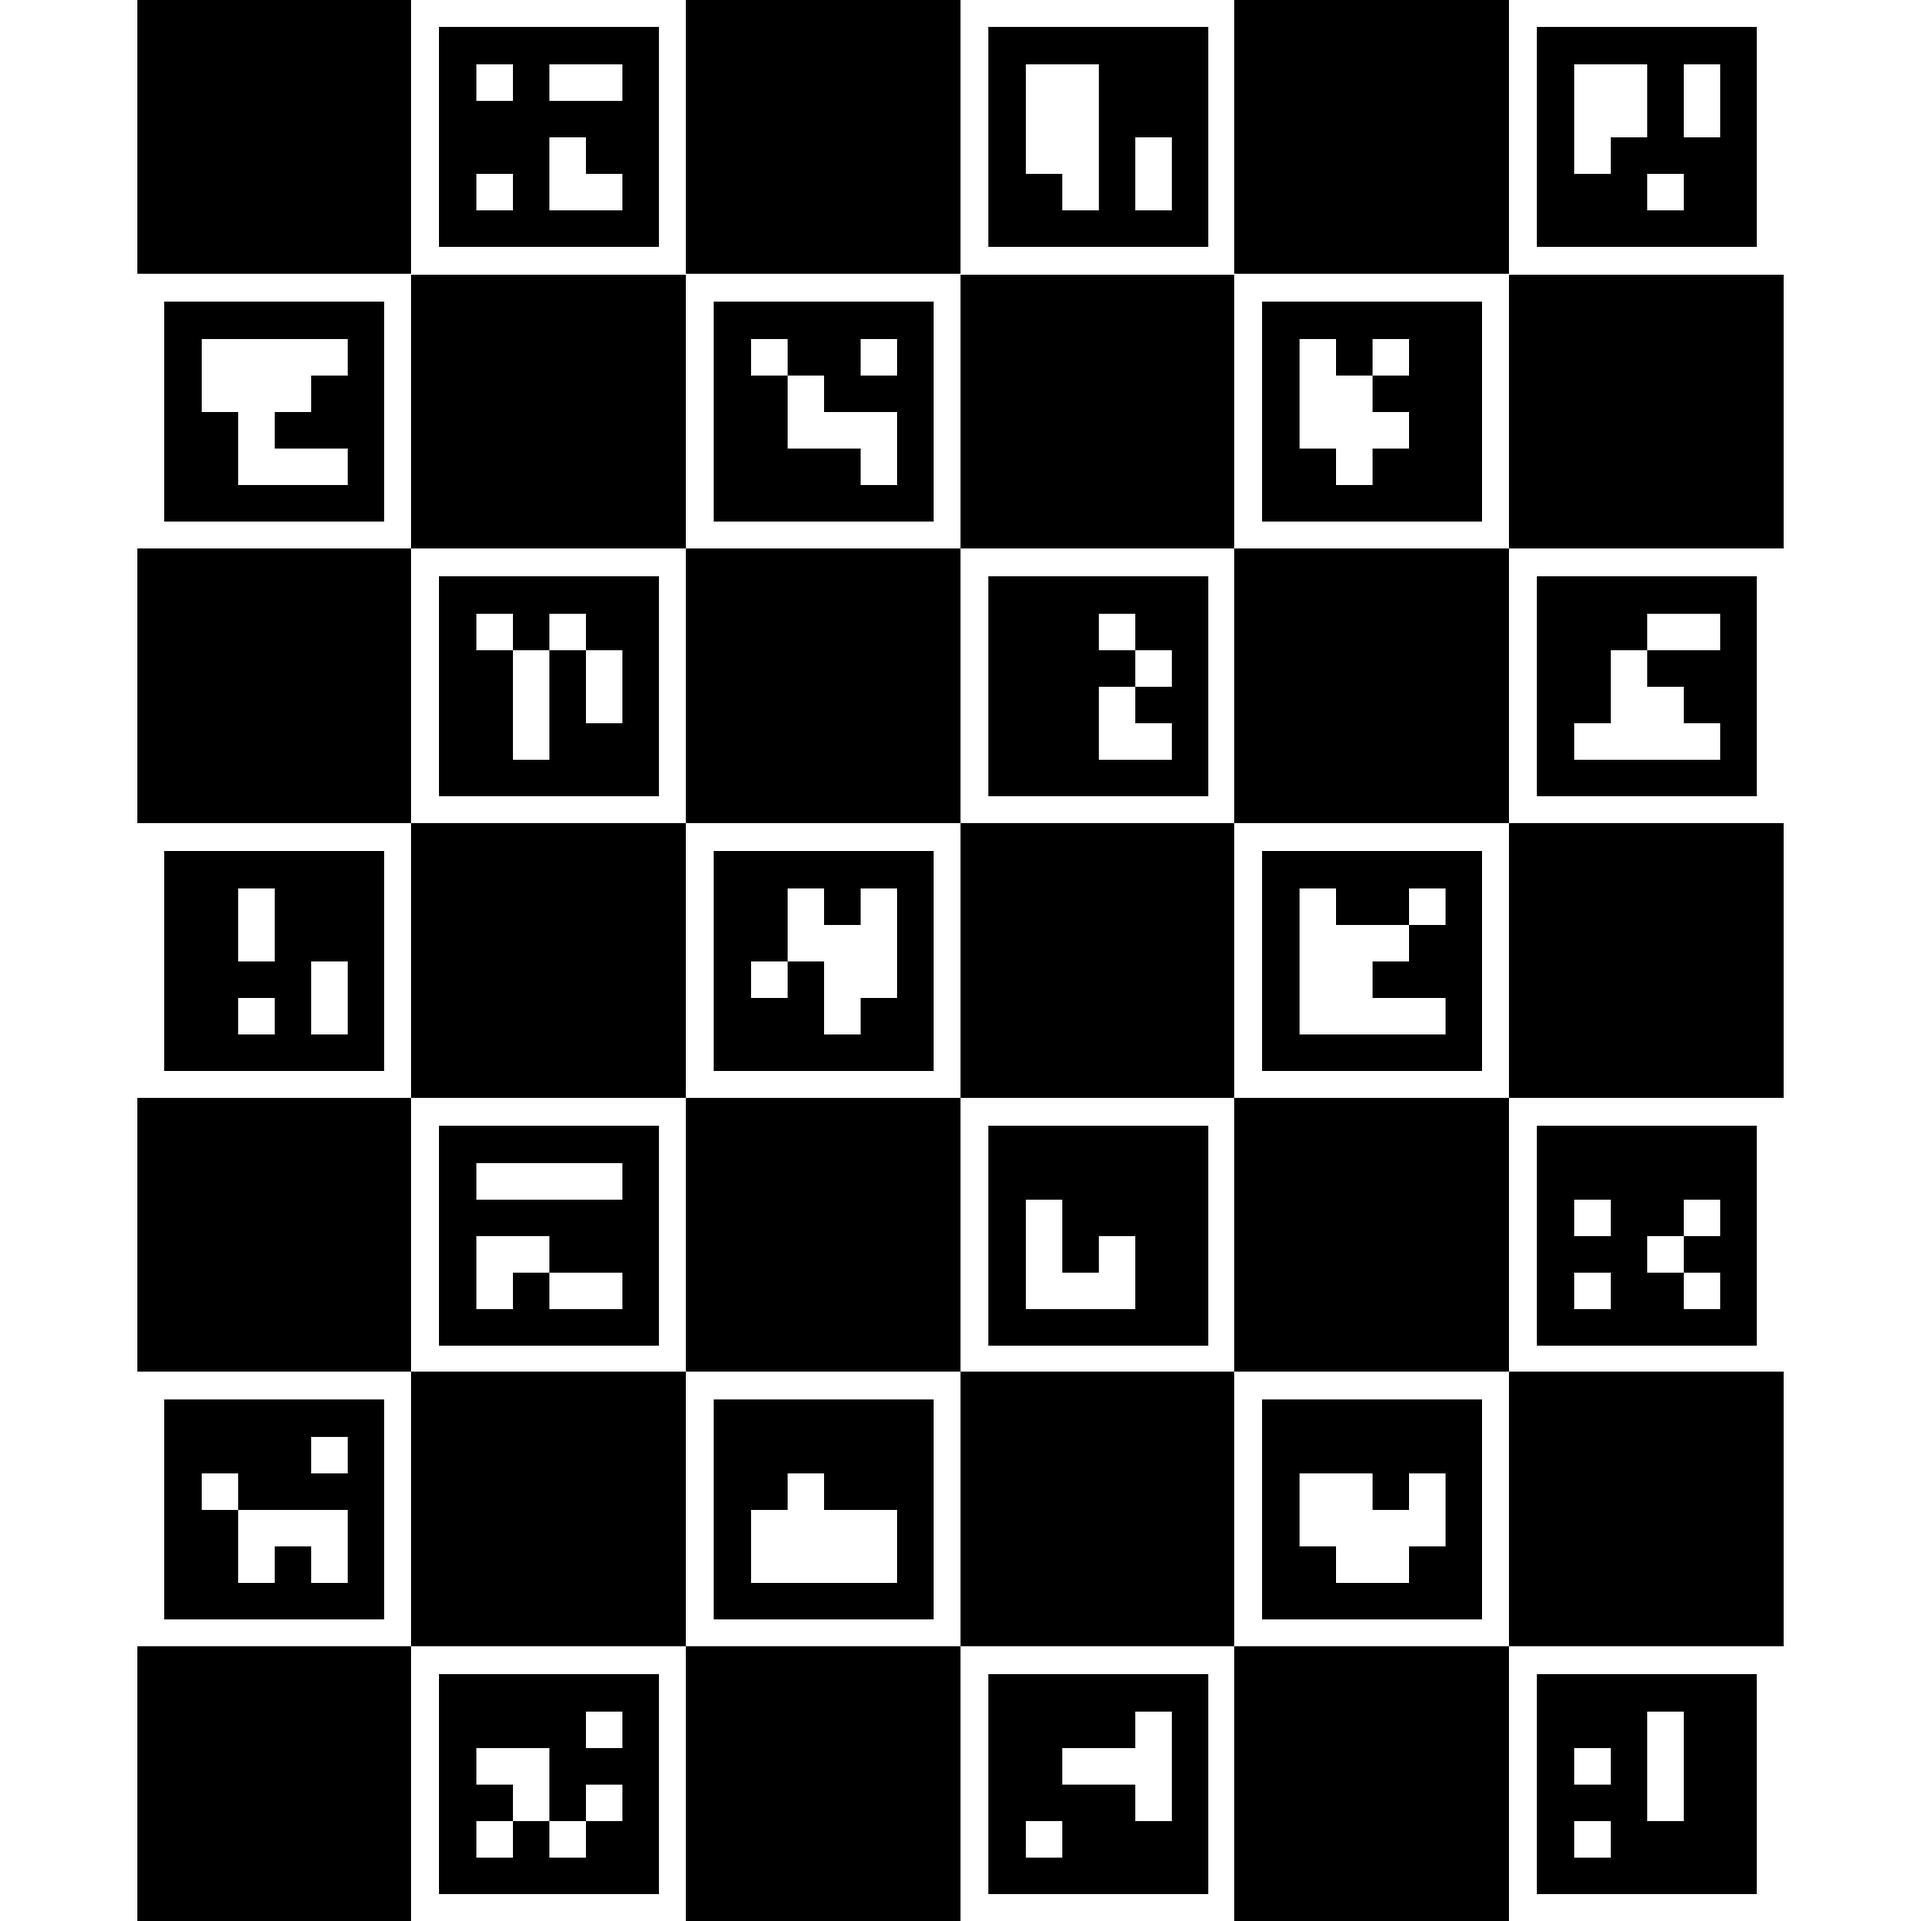
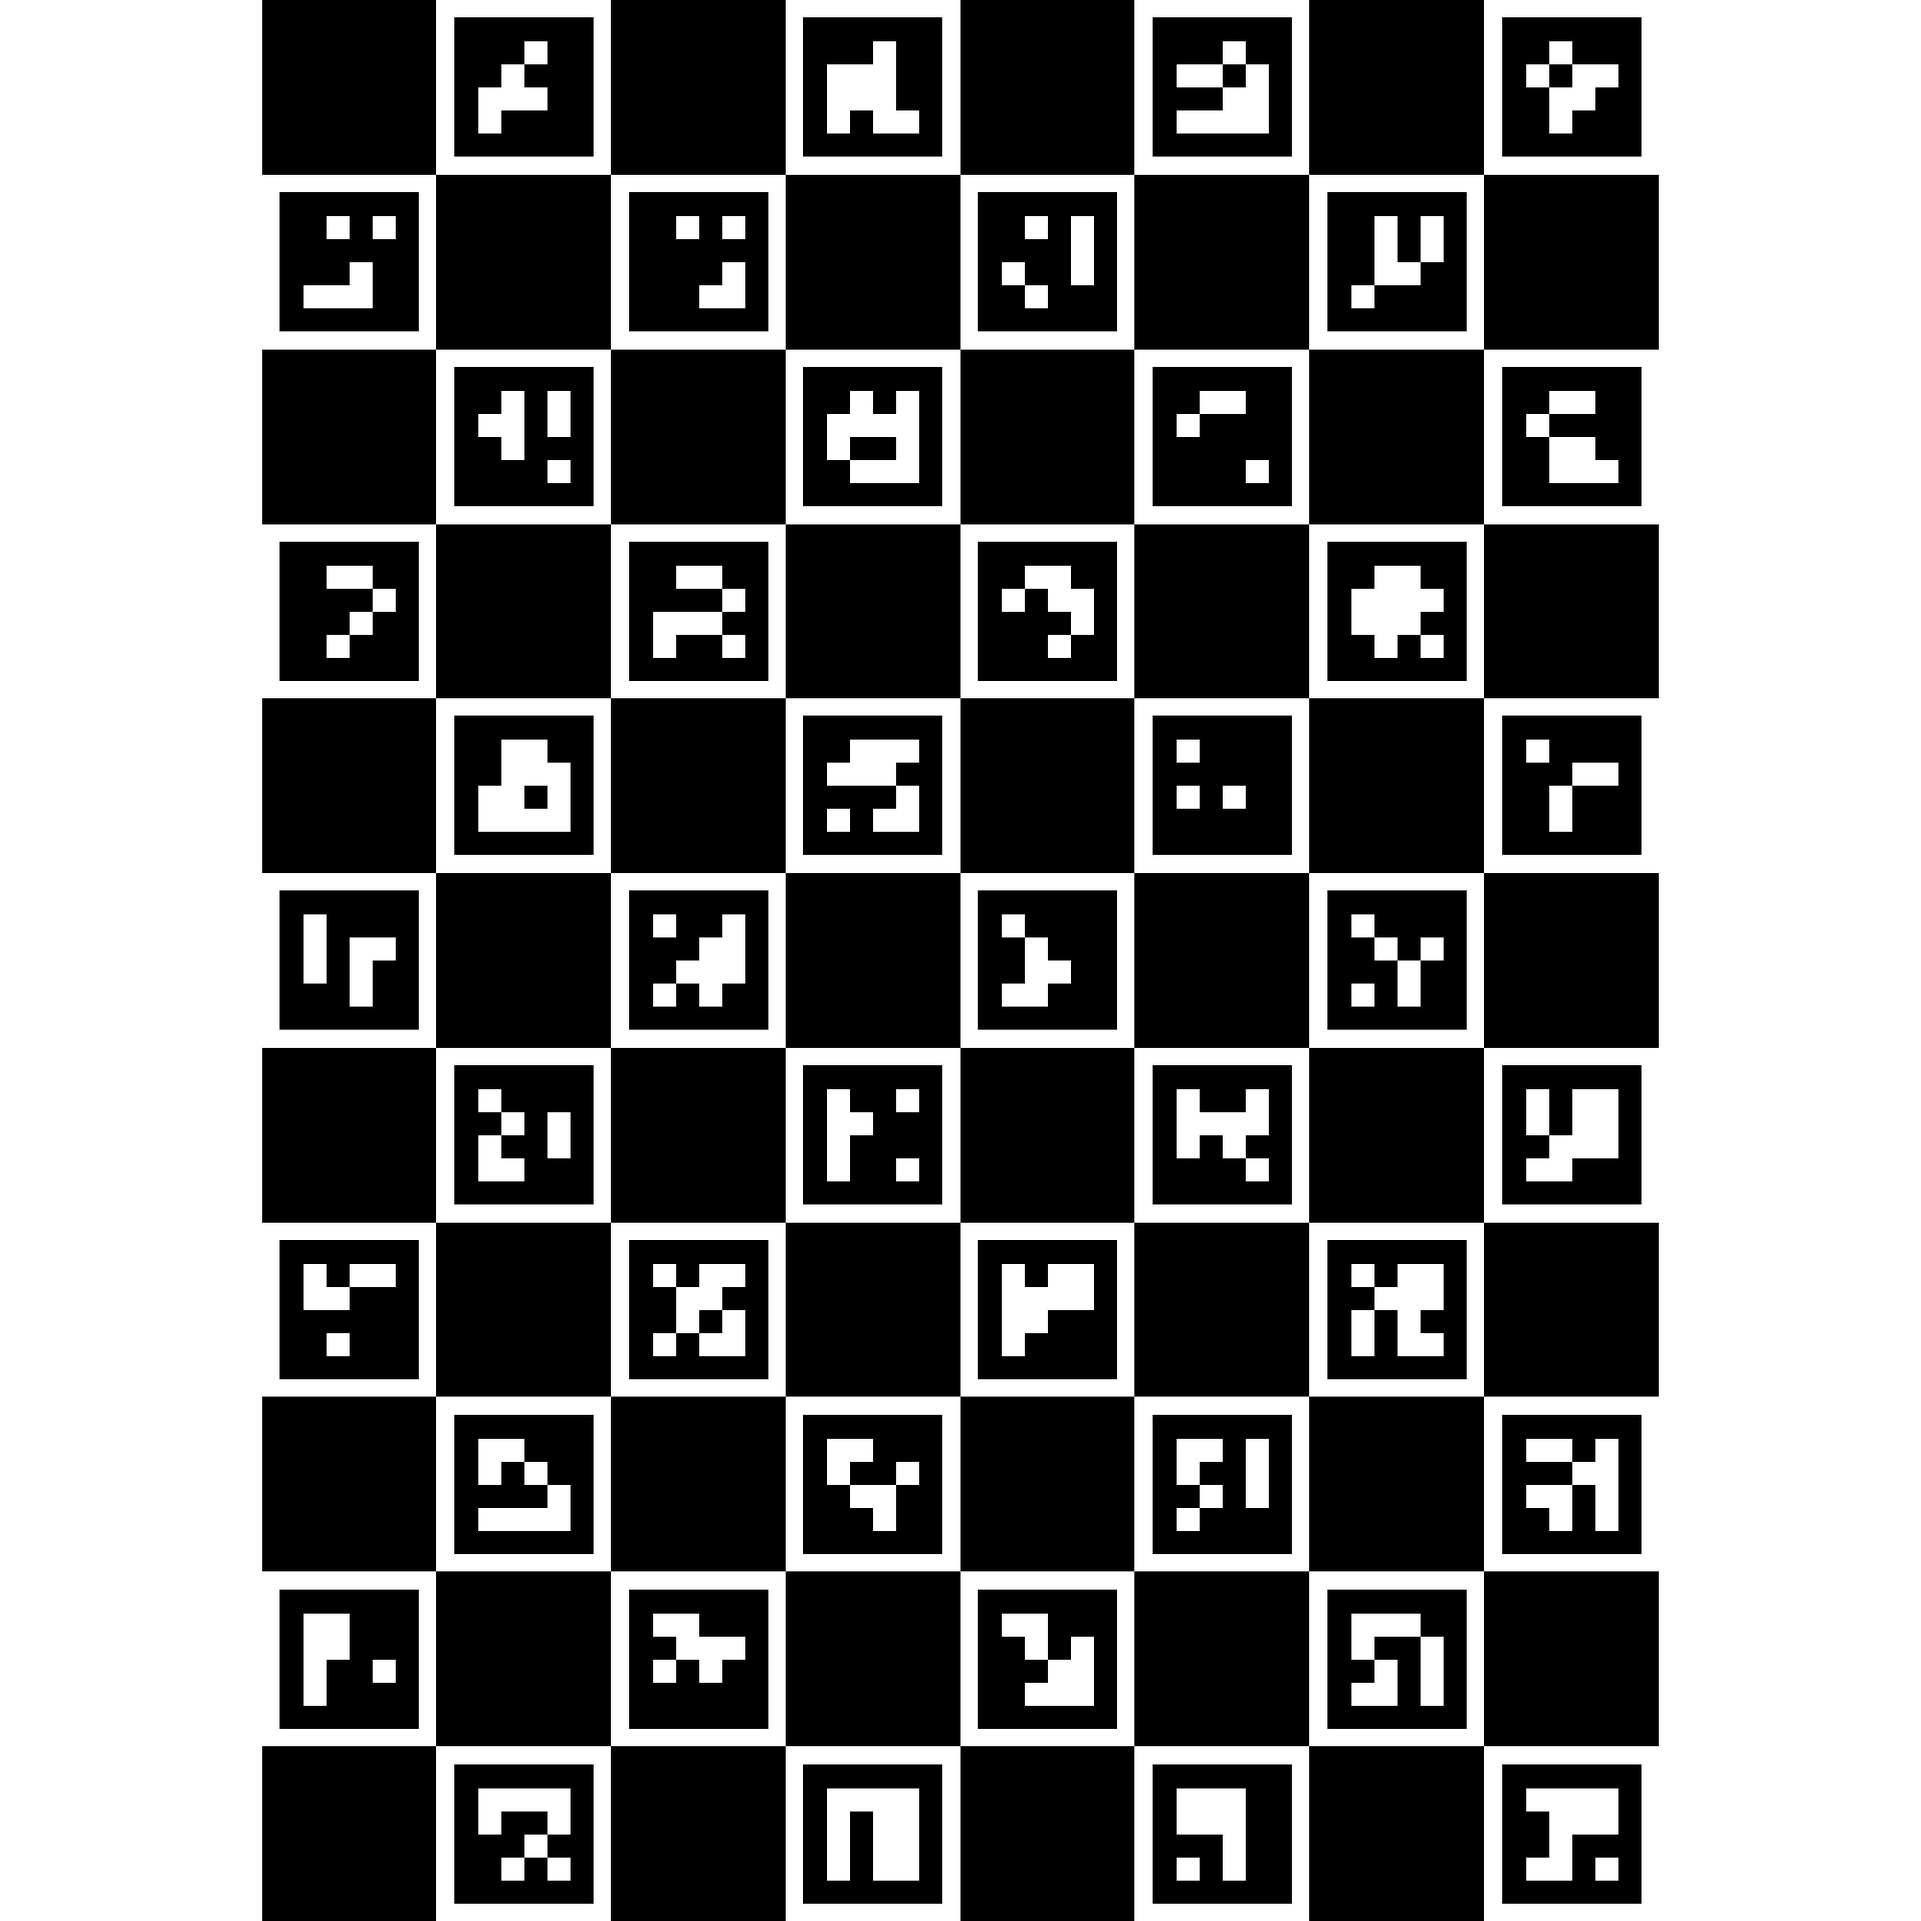
bugfix

diff --git a/main.py b/main.py
@@ -23,12 +23,12 @@ def getCharucoBoard(x_dim, y_dim, square_size, marker_size, aruco_dict, offset):
 
 def main(flags):
     # TEST CODE TO GENERATE 5 DIFFERENT CHARUCO BOARDS
-    # aruco_dict = cv2.aruco.Dictionary_get(cv2.aruco.DICT_4X4_250)
-    # for i in range(5):
-    #     board = getCharucoBoard(6, 7, 10, 8, aruco_dict, i)
-    #     boardImg = board.draw((2000,2000))
-    #     cv2.imwrite("test"+str(i)+".png", boardImg)
-    # cv2.waitKey(0)
+    aruco_dict = cv2.aruco.Dictionary_get(cv2.aruco.DICT_4X4_250)
+    for i in range(4):
+        board = getCharucoBoard(8, 11, 10, 8, aruco_dict, i)
+        boardImg = board.draw((2000,2000))
+        cv2.imwrite("test"+str(i)+".png", boardImg)
+    cv2.waitKey(0)
 
     # set frame number to zero
     frame = 0
